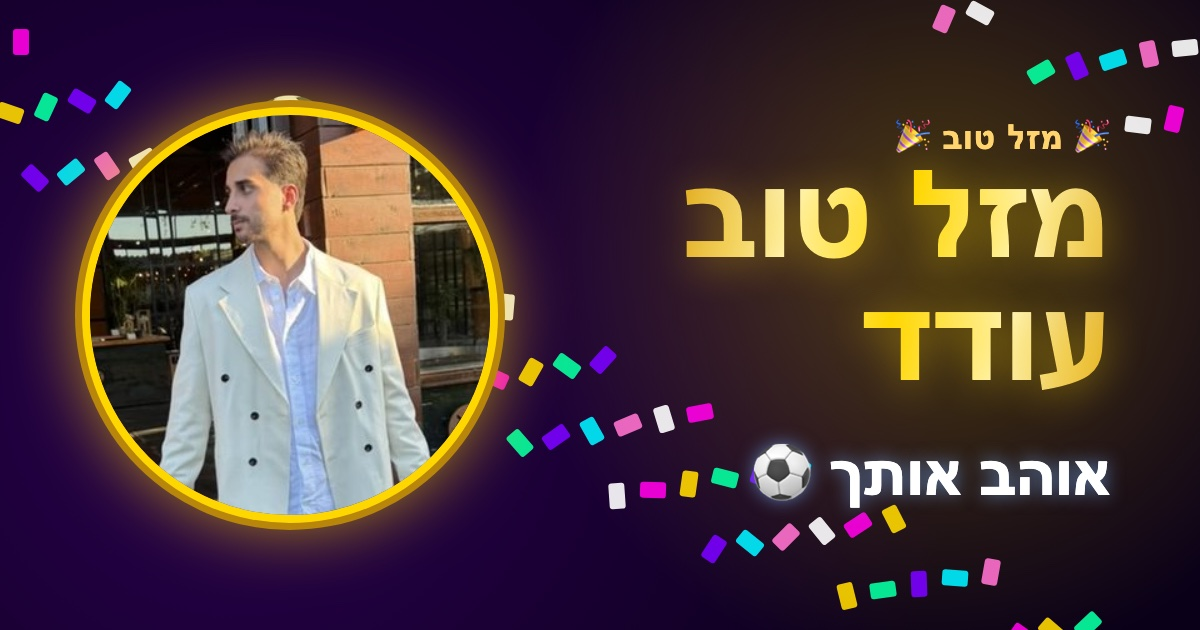
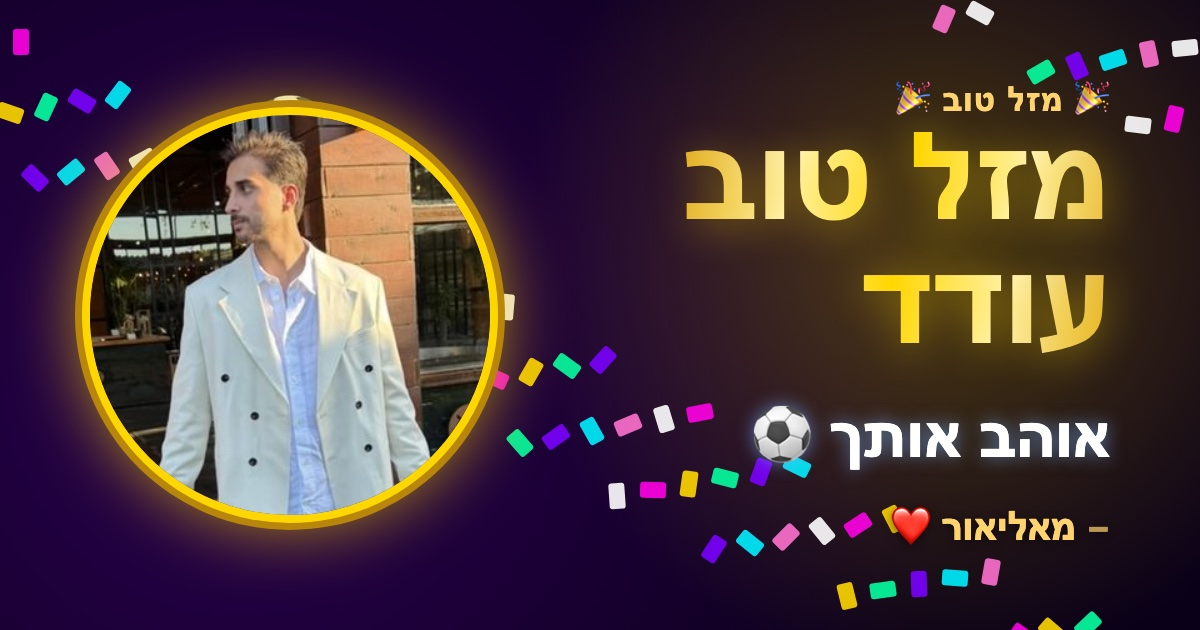
Add מאליאור signature to page and preview card

Changed region(s): [[0.555, 0.1206, 0.925, 0.6333], [0.6167, 0.6333, 0.925, 0.8746]]

diff --git a/index.html b/index.html
@@ -80,6 +80,14 @@
     letter-spacing: -0.02em;
   }
   .line2 { font-weight: 800; margin-top: 3vmin; font-size: clamp(1.5rem, 6.5vw, 4.2rem); }
+  .sig {
+    margin-top: 4vmin; font-weight: 700;
+    font-size: clamp(1rem, 4.2vw, 2rem);
+    color: #fff; opacity: .95;
+    text-shadow: 0 2px 12px rgba(0,0,0,.6);
+    animation: throb 2.4s ease-in-out infinite;
+  }
+  .sig::before { content: "— "; opacity: .7; }
 
   .word {
     display: inline-block; margin: 0 0.15em; will-change: transform;
@@ -143,6 +151,7 @@
   </div>
   <div class="line1" id="l1"></div>
   <div class="line2" id="l2"></div>
+  <div class="sig">מאליאור ❤</div>
 </div>
 
 <div class="badge">🎉 קליק/נגיעה = עודדים מעופפים</div>
